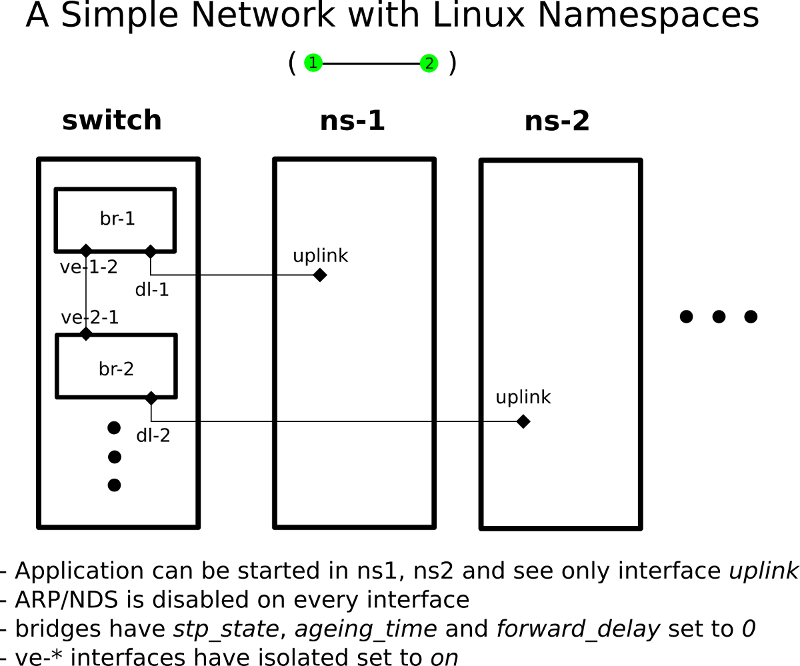
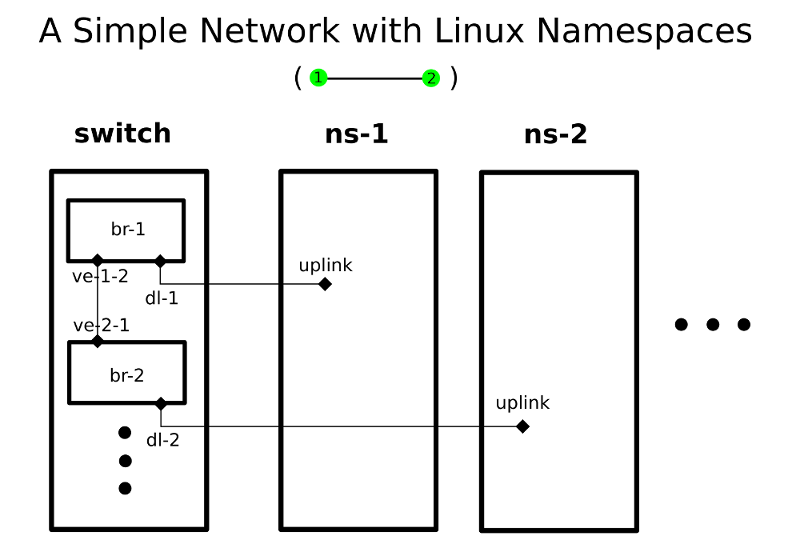
move text out of image
and remove ARP/NDP message that does not apply anymore.

Changed region(s): [[0.0, 0.0, 1.0, 1.0], [0.8438, 0.5554, 0.9375, 0.6171], [0.8438, 0.4628, 0.9688, 0.4936]]

diff --git a/README.md b/README.md
@@ -76,6 +76,10 @@ All bridges have `ageing_time` and `forward_delay` set to 0 to make them behave 
 
 ![Visual Example](network_mapping.png)
 
+- Application can be started in ns1, ns2 and see only interface uplink
+- bridges have stp_state, ageing_time and forward_delay set to 0
+- ve-* interfaces have isolated set to on
+
 ## TODO
 
 - Do not require the present state to be given.
